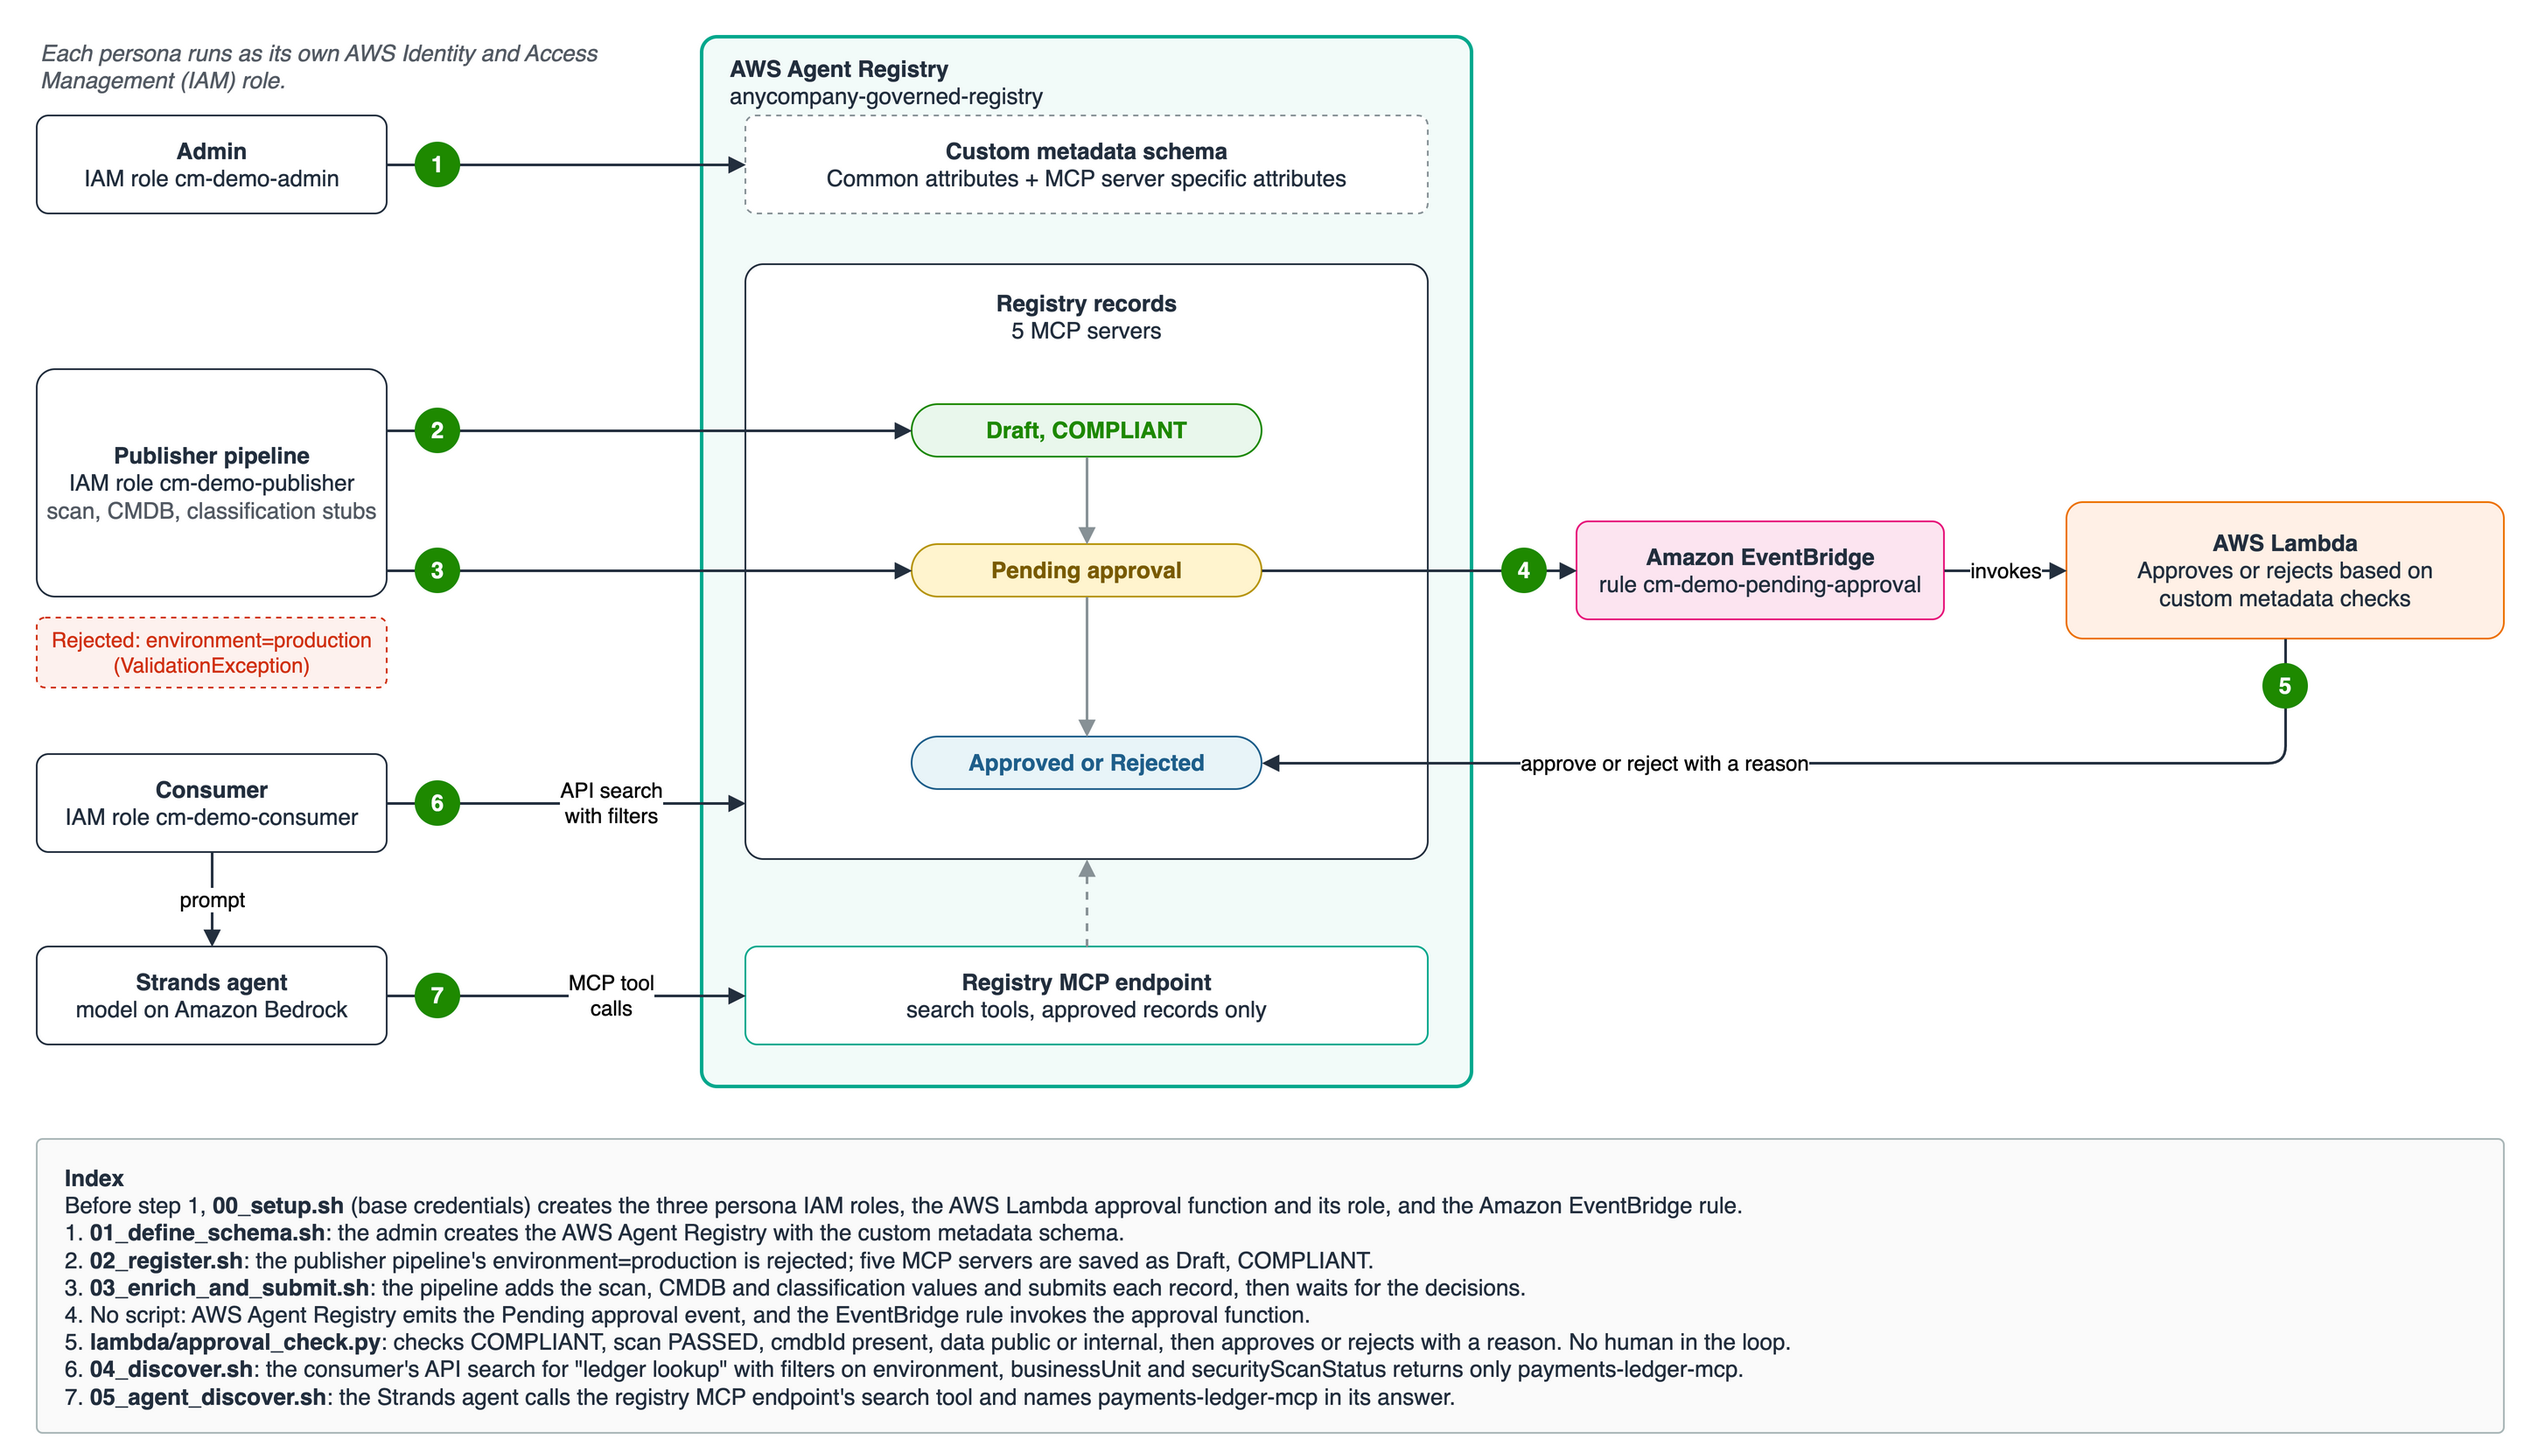
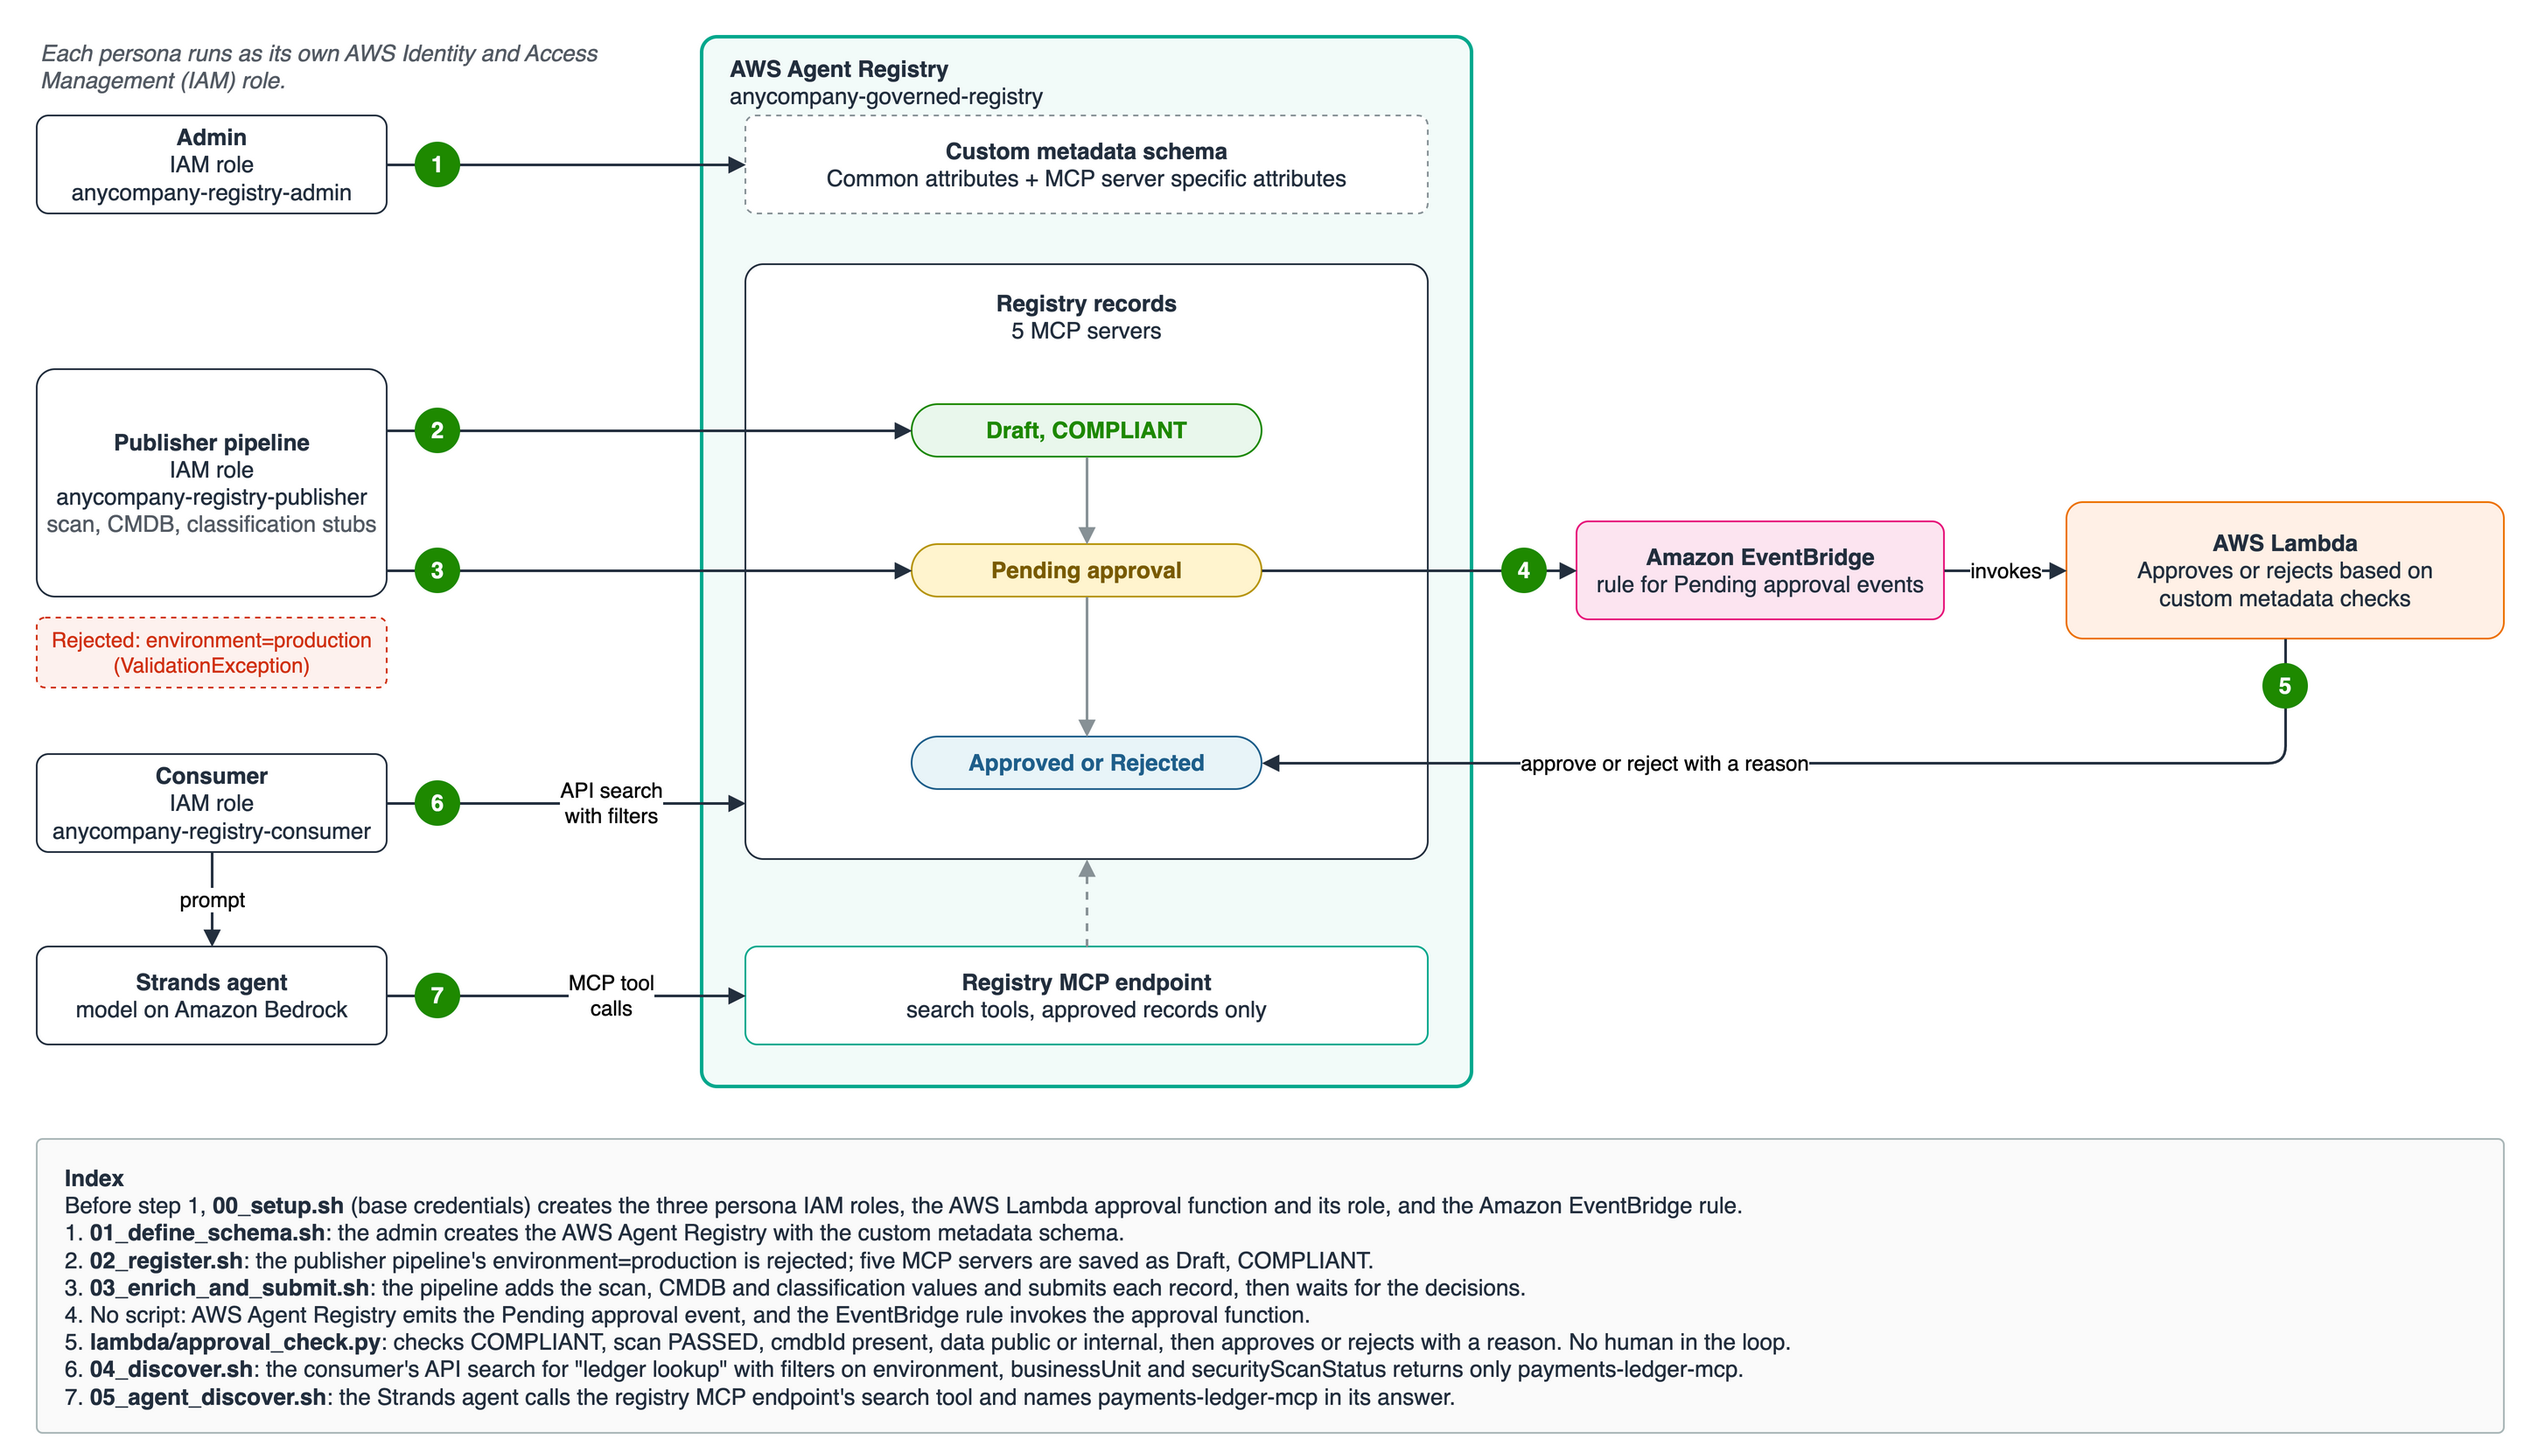
refactor(registry): use anycompany-registry-* resource names instead of cm-demo-*

diff --git a/01-features/07-centralize-and-govern-your-ai-infrastructure/03-registry/03-advanced/custom-metadata-in-registry/lambda/approval_check.py b/01-features/07-centralize-and-govern-your-ai-infrastructure/03-registry/03-advanced/custom-metadata-in-registry/lambda/approval_check.py
@@ -1,6 +1,6 @@
 """Approval function (AWS Lambda): approve or reject a record from its custom metadata.
 
-The EventBridge rule cm-demo-pending-approval invokes this function for every AWS Agent Registry
+The EventBridge rule anycompany-registry-pending-approval invokes this function for every AWS Agent Registry
 "Registry Record State changed to Pending Approval" event in the account. The event's detail holds
 plain IDs (registryId, registryRecordId); its resources list holds the record ARN.
 

diff --git a/01-features/07-centralize-and-govern-your-ai-infrastructure/03-registry/03-advanced/custom-metadata-in-registry/steps/00_setup.py b/01-features/07-centralize-and-govern-your-ai-infrastructure/03-registry/03-advanced/custom-metadata-in-registry/steps/00_setup.py
@@ -139,7 +139,7 @@ def put_role(role, principal, policy):
     )
     try:
         arn = iam.create_role(
-            RoleName=role, AssumeRolePolicyDocument=trust, Tags=[{"Key": "project", "Value": "cm-demo"}]
+            RoleName=role, AssumeRolePolicyDocument=trust, Tags=[{"Key": "project", "Value": "anycompany-registry"}]
         )["Role"]["Arn"]
         print(f"created role {role}")
     except iam.exceptions.EntityAlreadyExistsException:

diff --git a/01-features/07-centralize-and-govern-your-ai-infrastructure/03-registry/03-advanced/custom-metadata-in-registry/steps/common.py b/01-features/07-centralize-and-govern-your-ai-infrastructure/03-registry/03-advanced/custom-metadata-in-registry/steps/common.py
@@ -18,7 +18,7 @@ from botocore.exceptions import ClientError
 REGION = os.environ.get("REGION", "us-east-1")
 BASE_PROFILE = os.environ.get("BASE_PROFILE", "default")
 MODEL_ID = os.environ.get("MODEL_ID", "us.anthropic.claude-sonnet-5-5")
-PREFIX = "cm-demo"
+PREFIX = "anycompany-registry"
 REGISTRY_NAME = "anycompany-governed-registry"
 RECORD_NAME = "payments-ledger-mcp"
 RULE_NAME = f"{PREFIX}-pending-approval"

diff --git a/01-features/07-centralize-and-govern-your-ai-infrastructure/03-registry/03-advanced/custom-metadata-in-registry/README.md b/01-features/07-centralize-and-govern-your-ai-infrastructure/03-registry/03-advanced/custom-metadata-in-registry/README.md
@@ -40,10 +40,10 @@ This sample registers five MCP servers against one schema. An AWS Lambda functio
 
 | Persona | IAM role | Can | Cannot |
 |:---|:---|:---|:---|
-| Admin | `cm-demo-admin` | Create, update and delete the registry and its schema | Write records, approve |
-| Publisher pipeline | `cm-demo-publisher` | Create, update and submit records | Approve, change the schema |
-| Approval function (AWS Lambda) | `cm-demo-approval-function` | Read records, approve or reject | Edit custom metadata, so it can't change the evidence it judges |
-| Consumer and agent | `cm-demo-consumer` | Search approved records through the API or the registry MCP endpoint, invoke the Amazon Bedrock model | See unapproved records, write anything |
+| Admin | `anycompany-registry-admin` | Create, update and delete the registry and its schema | Write records, approve |
+| Publisher pipeline | `anycompany-registry-publisher` | Create, update and submit records | Approve, change the schema |
+| Approval function (AWS Lambda) | `anycompany-registry-approval-function` | Read records, approve or reject | Edit custom metadata, so it can't change the evidence it judges |
+| Consumer and agent | `anycompany-registry-consumer` | Search approved records through the API or the registry MCP endpoint, invoke the Amazon Bedrock model | See unapproved records, write anything |
 
 ### Records
 
@@ -79,8 +79,8 @@ Only `payments-ledger-mcp` passes the approval checks and the consumer's filters
   | Service | Permissions |
   |:---|:---|
   | AWS Agent Registry | `ListRegistries`, `GetRegistry`, `DeleteRegistry`, `ListRegistryRecords`, `GetRegistryRecord`, `DeleteRegistryRecord` (cleanup; the steps run as the persona roles) |
-  | AWS IAM | `CreateRole`, `GetRole`, `TagRole`, `UpdateAssumeRolePolicy`, `PutRolePolicy`, `DeleteRolePolicy`, `DeleteRole`, `PassRole` on `cm-demo-approval-function` |
-  | AWS STS | `AssumeRole` on the `cm-demo-*` roles, `GetCallerIdentity` |
+  | AWS IAM | `CreateRole`, `GetRole`, `TagRole`, `UpdateAssumeRolePolicy`, `PutRolePolicy`, `DeleteRolePolicy`, `DeleteRole`, `PassRole` on `anycompany-registry-approval-function` |
+  | AWS STS | `AssumeRole` on the `anycompany-registry-*` roles, `GetCallerIdentity` |
   | AWS Lambda | `CreateFunction`, `GetFunction`, `UpdateFunctionCode`, `AddPermission`, `DeleteFunction` |
   | Amazon EventBridge | `PutRule`, `PutTargets`, `RemoveTargets`, `DeleteRule` |
   | Amazon CloudWatch Logs | `DeleteLogGroup` |
@@ -94,10 +94,10 @@ Only `payments-ledger-mcp` passes the approval checks and the consumer's filters
 |:---|:---|:---|
 | Registry | `anycompany-governed-registry` | Holds the custom metadata schema and the records |
 | Registry records | `payments-ledger-mcp`, `payments-ledger-sandbox-mcp`, `marketing-analytics-mcp`, `refunds-mcp`, `customer-pii-mcp` | The MCP servers being governed |
-| IAM roles | `cm-demo-admin`, `cm-demo-publisher`, `cm-demo-consumer`, `cm-demo-approval-function` | One per persona, plus the approval function's execution role |
-| Lambda function | `cm-demo-approval-function` | Approves or rejects each submitted record (`lambda/approval_check.py`) |
-| CloudWatch log group | `/aws/lambda/cm-demo-approval-function` | One JSON line per decision |
-| EventBridge rule | `cm-demo-pending-approval` | Matches `aws.agent-registry` "Registry Record State changed to Pending Approval" and invokes the function |
+| IAM roles | `anycompany-registry-admin`, `anycompany-registry-publisher`, `anycompany-registry-consumer`, `anycompany-registry-approval-function` | One per persona, plus the approval function's execution role |
+| Lambda function | `anycompany-registry-approval-function` | Approves or rejects each submitted record (`lambda/approval_check.py`) |
+| CloudWatch log group | `/aws/lambda/anycompany-registry-approval-function` | One JSON line per decision |
+| EventBridge rule | `anycompany-registry-pending-approval` | Matches `aws.agent-registry` "Registry Record State changed to Pending Approval" and invokes the function |
 
 `00_setup.sh` bundles boto3 into the function's .zip because the Lambda runtime's built-in boto3 doesn't include AWS Agent Registry yet. `99_cleanup.sh` deletes all of these resources.
 
@@ -134,7 +134,7 @@ payments-ledger-mcp: status=DRAFT customMetadataSchemaComplianceStatus=COMPLIANT
 ...one line for each of the five records
 
 $ ./03_enrich_and_submit.sh
-waiting for cm-demo-approval-function to decide
+waiting for anycompany-registry-approval-function to decide
 record                       | status   | statusReason
 payments-ledger-mcp          | APPROVED | prod, payments, internal data, CMDB CI-20417, scan PASSED
 payments-ledger-sandbox-mcp  | APPROVED | dev, payments, internal data, CMDB CI-20418, scan PASSED
